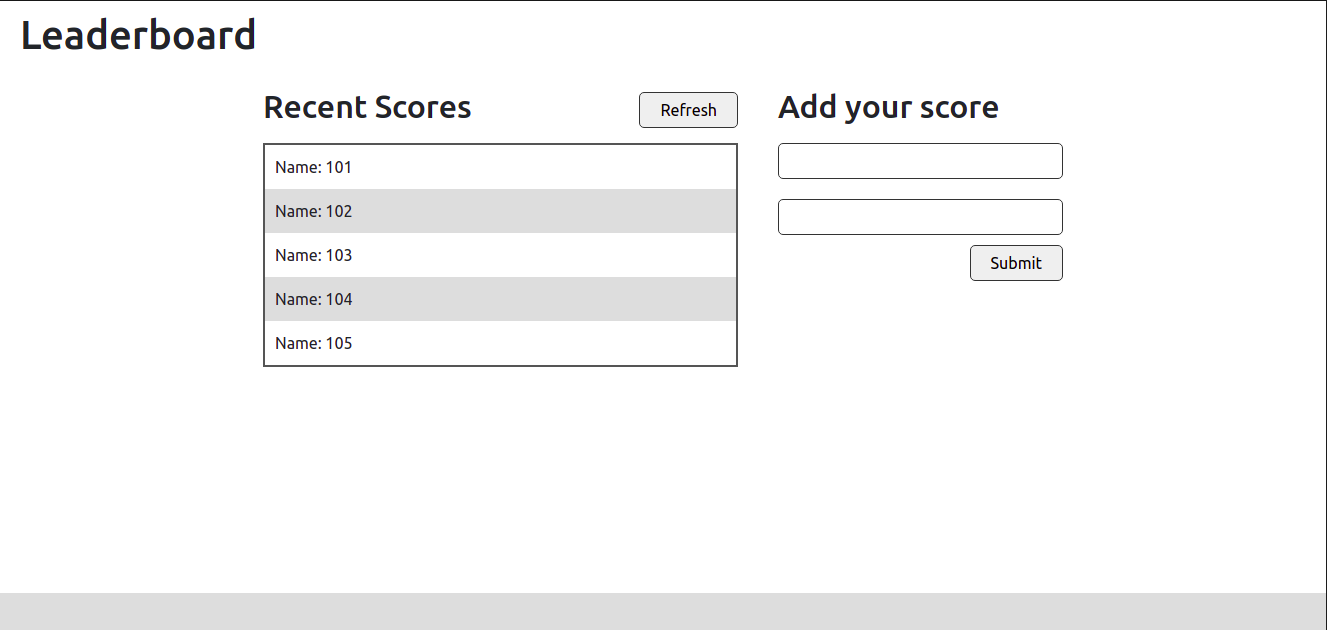
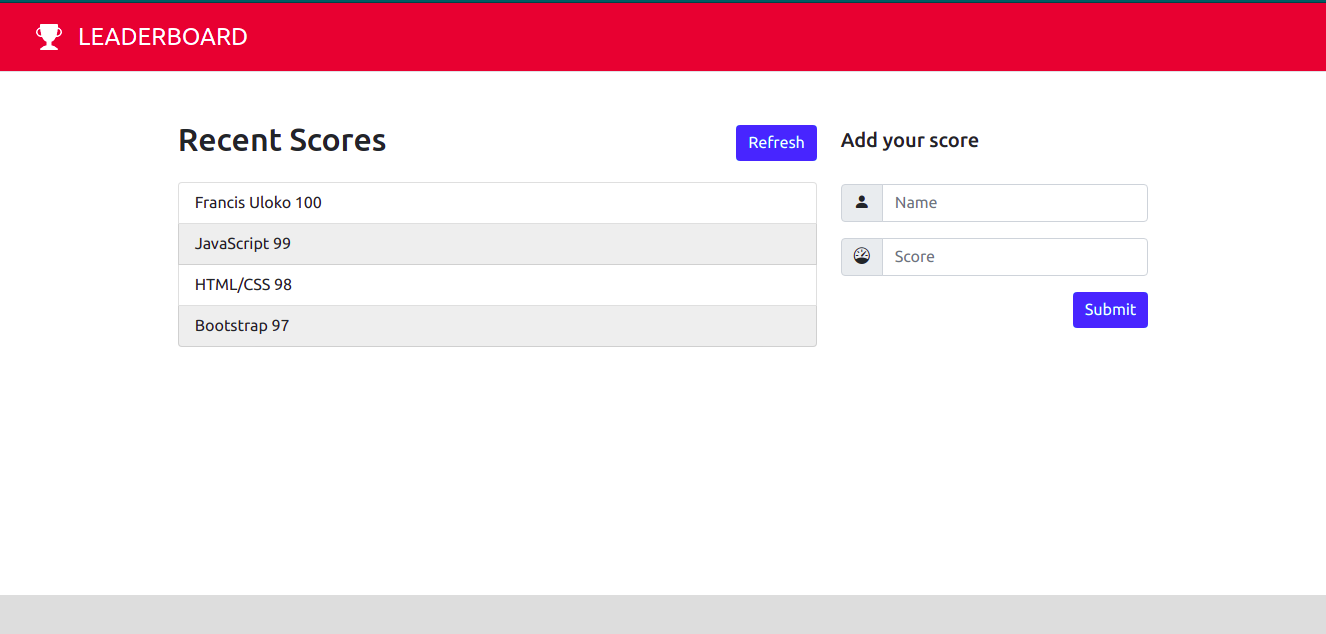
Add finishing touches to leaderboard app

diff --git a/src/index.html b/src/index.html
@@ -9,27 +9,46 @@
     <title>Leaderboard</title>
 </head>
 <body>
-    <header class="header">
-        <h1 class="leaderboard-title">Leaderboard</h1>
+    <header class="d-flex flex-wrap justify-content-center py-3 mb-4 border-bottom">
+        <a href="/" class="d-flex align-items-center mb-3 mb-md-0 me-md-auto text-white text-decoration-none">
+            <svg xmlns="http://www.w3.org/2000/svg" width="26" height="26" fill="currentColor" class="bi bi-trophy-fill mx-3" viewBox="0 0 16 16">
+                <path d="M2.5.5A.5.5 0 0 1 3 0h10a.5.5 0 0 1 .5.5c0 .538-.012 1.05-.034 1.536a3 3 0 1 1-1.133 5.89c-.79 1.865-1.878 2.777-2.833 3.011v2.173l1.425.356c.194.048.377.135.537.255L13.3 15.1a.5.5 0 0 1-.3.9H3a.5.5 0 0 1-.3-.9l1.838-1.379c.16-.12.343-.207.537-.255L6.5 13.11v-2.173c-.955-.234-2.043-1.146-2.833-3.012a3 3 0 1 1-1.132-5.89A33.076 33.076 0 0 1 2.5.5zm.099 2.54a2 2 0 0 0 .72 3.935c-.333-1.05-.588-2.346-.72-3.935zm10.083 3.935a2 2 0 0 0 .72-3.935c-.133 1.59-.388 2.885-.72 3.935z"/>
+            </svg>
+          <span class="fs-4">LEADERBOARD</span>
+        </a>
     </header>
     <main class="main">
-        <section class="leaderboard-container flex-util">
-            <div class="leaderboard-scores">
-                <div class="leaderboard-header flex-util">
-                    <h2 class="recent-scores">Recent Scores</h2>
-                    <button type="button" class="refresh-button" id="refresh-button">Refresh</button>
+        <section class="container leaderboard-container w-75 mx-auto mt-5">
+            <div class="row mb-3">
+                <div class="col-md-8 mb-5 themed-grid-col leaderboard">
+                    <div class="leaderboard-header d-flex justify-content-between align-items-center mb-3">
+                        <h2 class="recent-scores">Recent Scores</h2>
+                        <button type="button" class="submit-button btn btn-primary border-0" id="refresh-button">Refresh</button>
+                    </div>
+                    <ul id="leaderboard-records" class="leaderboard-records list-group">
+                        
+                    </ul>
                 </div>
-                <ul id="leaderboard-records" class="leaderboard-records">
-                    
-                </ul>
-            </div>
-            <div class="new-entries">
-              <h2>Add your score</h2>
-              <form class="form" id="form">
-                  <input type="text" name="username" id="username" class="username">
-                  <input type="text" name="user-score" id="user-score" class="user-score">
-                  <button type="submit" class="submit-button" id="submit-button">Submit</button>
-              </form>
+                <div class="col-md-4 themed-grid-col">
+                    <div class="leaderboard-header d-flex justify-content-between align-items-center mb-3">
+                      <h2 class="p-2 ps-0 fs-5">Add your score</h2>
+                    </div>
+                    <form class="form" id="form">
+                        <div class="input-group mb-3">
+                            <span class="input-group-text" id="basic-addon1">
+                              <i class="bi bi-person-fill"></i>
+                            </span>
+                            <input type="text" class="form-control" placeholder="Name" aria-label="Username" aria-describedby="basic-addon1">
+                        </div>
+                        <div class="input-group mb-3">
+                            <span class="input-group-text" id="basic-addon2">
+                              <i class="bi bi-speedometer"></i>
+                            </span>
+                            <input type="text" class="form-control" placeholder="Score" aria-label="Username" aria-describedby="basic-addon2">
+                        </div>
+                        <button type="submit" class="submit-button btn btn-primary border-0" id="submit-button">Submit</button>
+                    </form>
+                </div>
             </div>
         </section>
     </main>

diff --git a/src/style.css b/src/style.css
@@ -6,70 +6,23 @@
   text-decoration: none;
 }
 
-body {
-  background-color: #fff;
-}
-
-.flex-util {
-  display: flex;
-  justify-content: space-between;
-  align-items: center;
-}
-
-.header {
+header {
   padding: 10px 20px;
+  background-color: crimson;
+  color: #fff;
 }
 
 .leaderboard-container {
-  margin: 10px auto;
-  width: 800px;
-  align-items: flex-start;
+  margin: 40px auto;
 }
 
-.leaderboard-scores {
-  width: 500px;
-  margin: 0 40px 0 0;
-}
-
-.leaderboard-header {
-  margin-bottom: 10px;
-}
-
-.refresh-button {
-  padding: 10px;
-}
-
-.leaderboard-records {
-  padding: 0;
-  border: 2px solid #555;
-}
-
-.record {
-  padding: 10px;
-}
-
-.record:nth-child(even) {
-  background-color: #ddd;
-}
-
-.new-entries {
-  width: 300px;
-}
-
-.username,
-.user-score {
-  width: 100%;
-  margin: 10px 0;
-  padding: 5px;
-  outline: 0;
-  border: 1px solid #333;
+.list-group-item:nth-child(even) {
+  background-color: #eee;
 }
 
 .refresh-button,
 .submit-button {
-  padding: 5px 20px;
   float: right;
-  border: 1px solid #333;
 }
 
 .footer {

diff --git a/src/api.js b/src/api.js
@@ -2,7 +2,7 @@ import createRecord from './createRecord.js';
 
 const form = document.getElementById('form');
 const refreshButton = document.getElementById('refresh-button');
-const baseUrl = 'https://us-central1-js-capstone-backend.cloudfunctions.net/api/games/zAG1ExHNiELiNGcSYJXT/scores/';
+const baseUrl = 'https://us-central1-js-capstone-backend.cloudfunctions.net/api/games/nrFNDybxaeayVUlyCP41/scores/';
 
 const setScore = async (e) => {
   e.preventDefault();

diff --git a/src/createRecord.js b/src/createRecord.js
@@ -7,7 +7,7 @@ const createRecord = (scores) => {
     const li = document.createElement('li');
     const name = document.createElement('span');
     const score = document.createElement('span');
-    li.classList.add('record');
+    li.classList.add('list-group-item');
     name.innerHTML = `${game.user} `;
     score.innerHTML = game.score;
     li.appendChild(name);
